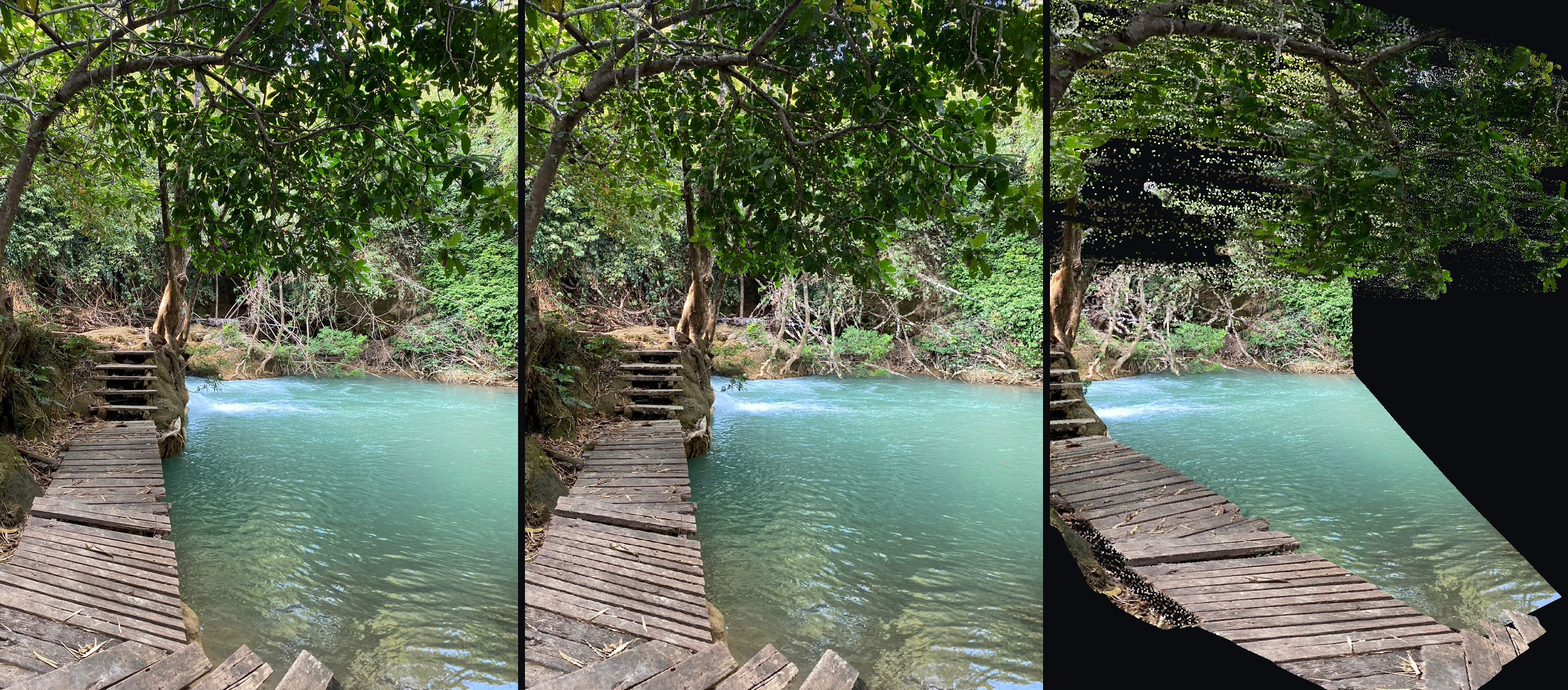
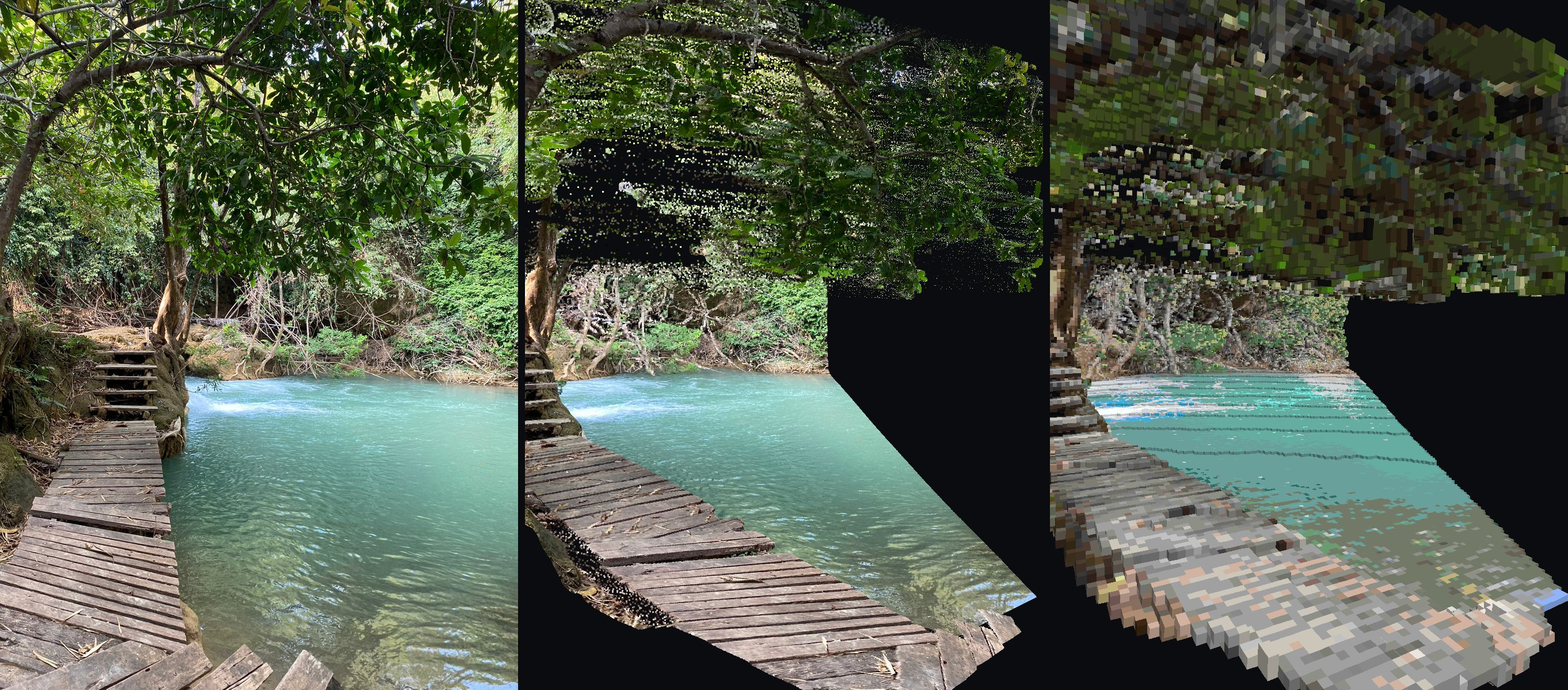
README: the image section shows photo -> point cloud from 30° -> its Minecraft build from the same spot (readme_media.py build)

diff --git a/tools/readme_media.py b/tools/readme_media.py
@@ -1,6 +1,7 @@
 """Render the README's pictures from runs: point clouds splatted with a z-buffer, no GPU needed.
 
     uv run python tools/readme_media.py triptych <image run> <out.jpg>    input | cloud from the camera | cloud from 30° off
+    uv run python tools/readme_media.py build <image run> <out.jpg>       input | cloud from 30° off | its Minecraft build from 30° off
     uv run python tools/readme_media.py orbit <image run> <out.gif>       the cloud swinging away from the camera and back
     uv run python tools/readme_media.py walk <scene run> <out.gif>        a walk along the scene's camera path
 """
@@ -8,10 +9,10 @@ import sys
 from pathlib import Path
 
 import numpy as np
-from PIL import Image
+from PIL import Image, ImageDraw
 
 sys.path.insert(0, str(Path(__file__).resolve().parent.parent))
-from backend import store, video  # noqa: E402
+from backend import minecraft, store, video  # noqa: E402
 
 BG = (11, 12, 15)
 WIDTH = 900  # px per triptych panel
@@ -93,6 +94,61 @@ def triptych(rid: str, out: str) -> None:
     print(f"{out}: {fig.size[0]}x{fig.size[1]}")
 
 
+# (axis, side, shade): Minecraft lights tops fully, north/south faces at 0.8, east/west at 0.6.
+FACES = [(1, 1, 1.0), (1, 0, 0.5), (2, 0, 0.8), (2, 1, 0.8), (0, 0, 0.6), (0, 1, 0.6)]
+
+
+def blocks(b: minecraft.Build, K: np.ndarray, w2c: np.ndarray, hw: tuple[int, int]) -> Image.Image:
+    """A build's exposed block faces (Minecraft face shading, far to near) seen by camera w2c, in
+    the cloud's camera frame like `splat`."""
+    h, w = hw
+    B, _ = minecraft._basis(b.pose)  # columns: Minecraft x, y, z in cloud coordinates
+    occupied = {tuple(p) for p in b.ijk}
+    rgb = minecraft.BLOCK_RGB[b.block].astype(float)
+    polys = []
+    for axis, side, shade in FACES:
+        step = np.zeros(3, int)
+        step[axis] = 1 if side else -1
+        exposed = np.array([tuple(p + step) not in occupied for p in b.ijk])
+        a, c = [i for i in range(3) if i != axis]
+        quad = np.zeros((4, 3))
+        quad[:, axis] = side
+        quad[:, a], quad[:, c] = [0, 1, 1, 0], [0, 0, 1, 1]
+        mc = (b.ijk[exposed, None, :] + quad[None]) * b.block_size + b.lo
+        cam = (mc.reshape(-1, 3) @ B.T + b.pose.position) @ w2c[:3, :3].T + w2c[:3, 3]
+        cam = cam.reshape(-1, 4, 3)
+        n = np.zeros(3)
+        n[axis] = 1 if side else -1
+        facing = (cam.mean(1) @ (w2c[:3, :3] @ B @ n)) < 0  # outward normal points back at the camera
+        z = cam[..., 2]
+        ok = (z > 1e-6).all(1) & facing
+        uv = cam[..., :2] / z[..., None] * [K[0, 0], K[1, 1]] + [K[0, 2], K[1, 2]]
+        polys += zip(z[ok].mean(1), uv[ok], rgb[exposed][ok] * shade)
+    img = Image.new("RGB", (w, h), BG)
+    draw = ImageDraw.Draw(img)
+    for _, q, col in sorted(polys, key=lambda p: -p[0]):
+        draw.polygon([tuple(v) for v in q], fill=tuple(int(x) for x in col))
+    return img
+
+
+def build(rid: str, out: str, deg: float = 30, kblocks: int = 300) -> None:
+    rgb, P, C, size, K, up = image_cloud(rid)
+    a = store.load_arrays(rid)
+    b = minecraft.build_from_image(a["points"], rgb, a["mask"], a["intrinsics"], "auto", kblocks, up=up)
+    h, w = rgb.shape[:2]
+    s = WIDTH / w
+    Ko = K * np.array([[s], [s], [1]])
+    hw = (round(h * s), WIDTH)
+    view = orbit_view(P, up, deg)
+    panels = [Image.fromarray(rgb).resize(hw[::-1], Image.LANCZOS), splat(P, C, size, Ko, view, hw), blocks(b, Ko, view, hw)]
+    gap = 12
+    fig = Image.new("RGB", (WIDTH * 3 + gap * 2, hw[0]), BG)
+    for i, p in enumerate(panels):
+        fig.paste(p, (i * (WIDTH + gap), 0))
+    fig.save(out, quality=86)
+    print(f"{out}: {fig.size[0]}x{fig.size[1]}, {len(b.ijk):,} blocks")
+
+
 def _save_gif(frames: list[Image.Image], out: str, ms: int, colors: int = 128) -> None:
     pal = frames[len(frames) // 2].quantize(colors=colors, method=Image.Quantize.MEDIANCUT)
     q = [f.quantize(palette=pal, dither=Image.Dither.NONE) for f in frames]
@@ -145,4 +201,4 @@ def walk(rid: str, out: str, steps: int = 2, stride: int = 3) -> None:
 
 
 if __name__ == "__main__":
-    {"triptych": triptych, "orbit": orbit, "walk": walk}[sys.argv[1]](*sys.argv[2:4])
+    {"triptych": triptych, "build": build, "orbit": orbit, "walk": walk}[sys.argv[1]](*sys.argv[2:4])

diff --git a/README.md b/README.md
@@ -54,7 +54,10 @@ Model weights download from Hugging Face on first use.
    blocks** to preview, and press **Snap to input camera** to see it from where it matches.
 3. Press **Download .schem** on the run's card. Big builds come as a zip of 128 × 128 tiles.
 
-![A photo, its point cloud from the camera, and from 30° to the side](docs/photo-waterfall.jpg)
+![A photo, its point cloud from 30° to the side, and its Minecraft build from the same spot](docs/photo-waterfall.jpg)
+
+*Left: the photo. Middle: its point cloud, seen from 30° to the side. Right: the Minecraft build, from
+the same spot.*
 
 <img src="docs/orbit.gif" width="560" alt="The tower's point cloud swinging away from the camera and back">
 
@@ -131,7 +134,7 @@ The backend is FastAPI (`backend/`), the web app Vite + React + three.js (`front
 
 ```bash
 uv run pytest                                                 # model tests download weights on first run
-uv run python tools/readme_media.py triptych <run> <out.jpg>  # README pictures: triptych, orbit, walk
+uv run python tools/readme_media.py build <run> <out.jpg>     # README pictures: triptych, build, orbit, walk
 uv run python tools/minecraft_palette.py <minecraft.jar>      # re-measure the block palette
 ```
 
